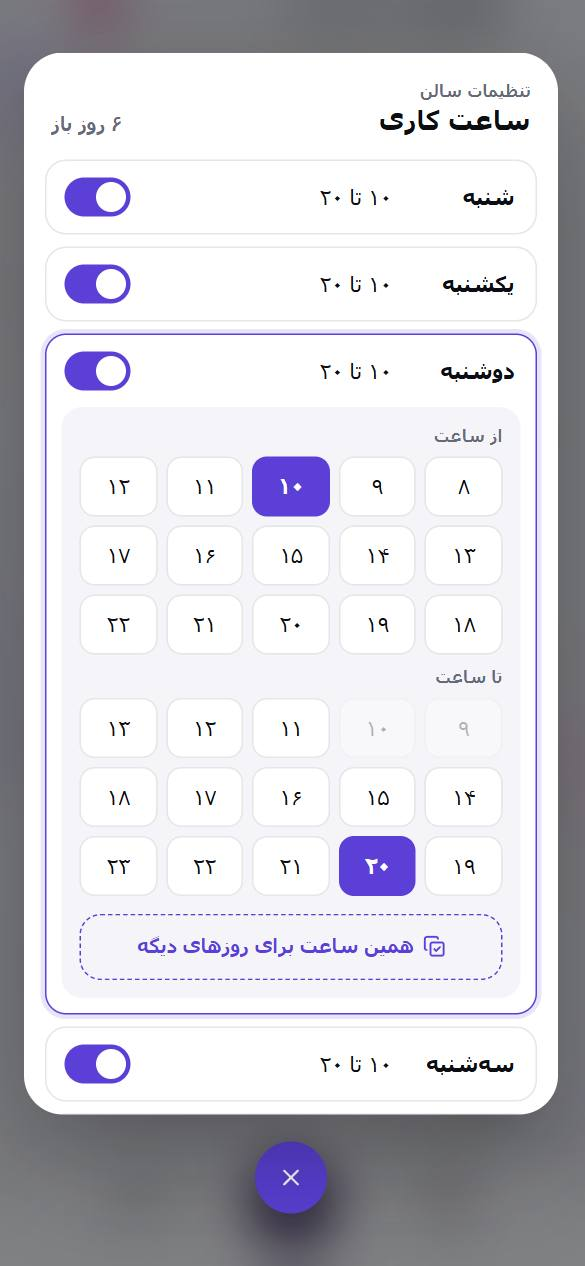
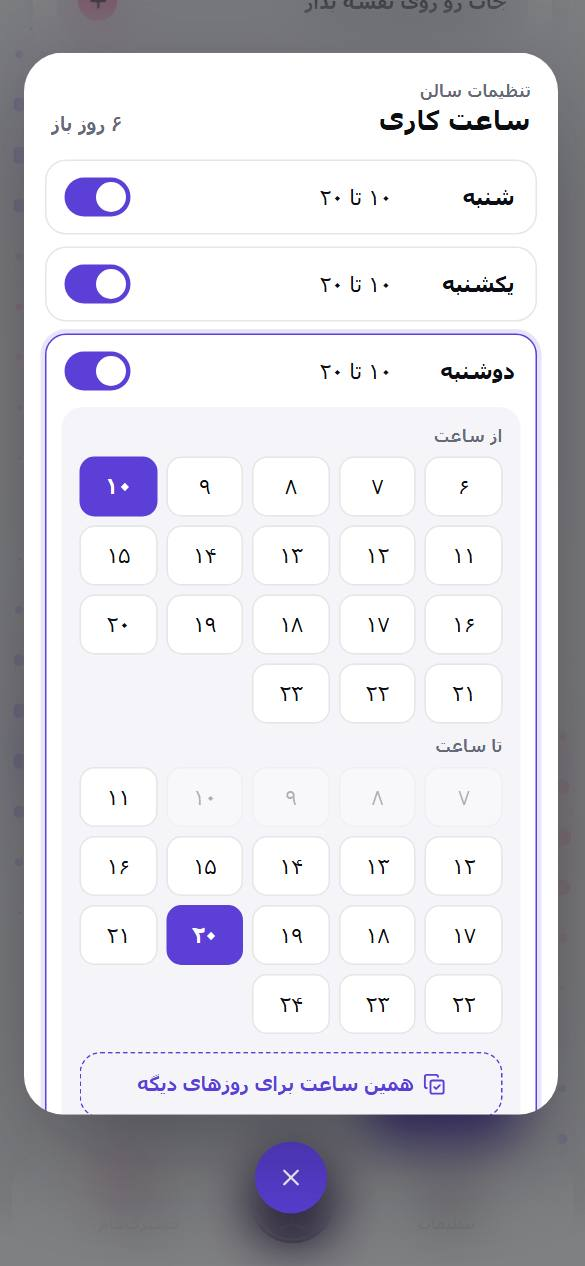
Hardening step 1, review fixes: a team member's number stays private, one seat never breaks a team page, alert and dropped-connection gaps
The hours screen pictures are retaken.

diff --git a/tests/integration/loginPhoneVisibility.test.js b/tests/integration/loginPhoneVisibility.test.js
@@ -1,5 +1,5 @@
 import { describe, it, expect } from "vitest";
-import { createClient, registerUser, FAR_DAY, confirmedAt, joinSalonAsArtist, newArtist, newClient, newSalon } from "./exitHelpers.js";
+import { createClient, registerUser, FAR_DAY, confirmedAt, joinSalonAsArtist, newArtist, newClient, newSalon, q } from "./exitHelpers.js";
 
 // Owner's decision of 2026-11-08: a salon's or artist's login phone is seen by the account itself, a connected client, a
 // client with a booking there, and the other side of a team. Nobody else, signed in or not.
@@ -55,6 +55,55 @@ describe("who sees a salon's login phone", () => {
     expect((await joinSalonAsArtist(artist.api, salon.api, salon.id)).ok).toBe(true);
     expect(await salonPhoneFor(artist.api, salon)).toBe(salon.phone);
     expect(await artistPhoneFor(salon.api, artist)).toBe(artist.phone);
+  });
+});
+
+describe("a salon's team on its page", () => {
+  const staffOf = async (viewer, salon) => (await viewer.get(`/api/salons/${salon.id}`)).payload.data.salon.staff;
+
+  it("a member's number reaches neither a visitor, a stranger nor the page's HTML; the salon keeps it", async () => {
+    const salon = await newSalon("Phone Team Page");
+    const artist = await newArtist("Phone Team Page Artist");
+    const mate = await newArtist("Phone Team Page Mate");
+    for (const person of [artist, mate]) expect((await joinSalonAsArtist(person.api, salon.api, salon.id)).ok).toBe(true);
+    const stranger = await newClient("Phone Team Page Stranger");
+
+    for (const viewer of [createClient(), stranger.api, mate.api]) {
+      const member = (await staffOf(viewer, salon)).find((row) => row.artist_user_id === artist.id);
+      expect(member).toBeTruthy();
+      expect(member.artist_phone).toBeUndefined();
+      expect(member.phone).toBeUndefined();
+      expect(member.bio).toBeUndefined();
+    }
+    const own = (await staffOf(salon.api, salon)).find((row) => row.artist_user_id === artist.id);
+    expect(own.artist_phone).toBe(artist.phone);
+
+    const html = await (await fetch(`${process.env.TEST_BASE_URL}/salons/${salon.id}`)).text();
+    expect(html).not.toContain(artist.phone);
+  });
+
+  it("a client connected to one member sees that member's number only", async () => {
+    const salon = await newSalon("Phone Team One");
+    const artist = await newArtist("Phone Team One Artist");
+    const other = await newArtist("Phone Team One Other");
+    for (const person of [artist, other]) expect((await joinSalonAsArtist(person.api, salon.api, salon.id)).ok).toBe(true);
+    const client = await newClient("Phone Team One Client");
+    expect((await connect(client, artist)).ok).toBe(true);
+    const staff = await staffOf(client.api, salon);
+    expect(staff.find((row) => row.artist_user_id === artist.id).artist_phone).toBe(artist.phone);
+    expect(staff.find((row) => row.artist_user_id === other.id).artist_phone).toBeUndefined();
+  });
+
+  it("an old unlinked row of an artist who already has a seat does not break the salon's team", async () => {
+    const salon = await newSalon("Team Old Row");
+    const artist = await newArtist("Team Old Row Artist");
+    expect((await joinSalonAsArtist(artist.api, salon.api, salon.id)).ok).toBe(true);
+    await q(`INSERT INTO salon_staff (salon_user_id, name, phone, role, bio, booked, state, access_level)
+      SELECT salon_user_id, $2, $3, role, bio, booked, state, access_level FROM salon_staff WHERE artist_user_id = $1`, [artist.id, artist.user.name, artist.phone]);
+    expect((await salon.api.get("/api/salon-staff")).ok).toBe(true);
+    expect((await createClient().get(`/api/salons/${salon.id}`)).ok).toBe(true);
+    const seats = await q("SELECT COUNT(*)::int AS c FROM salon_staff WHERE salon_user_id = $1 AND artist_user_id = $2", [salon.id, artist.id]);
+    expect(seats[0].c).toBe(1);
   });
 });
 

diff --git a/app/lib/db/repos/salons/staff.js b/app/lib/db/repos/salons/staff.js
@@ -51,6 +51,7 @@ export async function listSalonStaff(salonUserId, runner = null) {
         UPDATE salon_staff
         SET artist_user_id = $1, updated_at = CURRENT_TIMESTAMP
         WHERE id = $2 AND salon_user_id = $3
+          AND NOT EXISTS (SELECT 1 FROM salon_staff seat WHERE seat.salon_user_id = $3 AND seat.artist_user_id = $1)
       `, [artist.id, row.id, salonUserId]);
     }
     const staffAvatarUrl = artistAvatarUrl(artist);
@@ -469,7 +470,11 @@ export async function updateSalonStaff(id, salonUserId, data) {
     access_level: data.accessLevel ?? data.access_level ?? current.access_level
   };
   const resolvedArtist = await resolveArtistUserForStaff(nextDraft, db);
-  const artistUserId = nextDraft.artist_user_id || resolvedArtist?.id || null;
+  // One seat per salon and artist (migration 078): an old unlinked row stays unlinked when the artist already has a row.
+  const seatTaken = !nextDraft.artist_user_id && resolvedArtist?.id
+    ? await get(db, "SELECT 1 AS taken FROM salon_staff WHERE salon_user_id = $1 AND artist_user_id = $2 AND id <> $3", [salonUserId, resolvedArtist.id, id])
+    : null;
+  const artistUserId = nextDraft.artist_user_id || (seatTaken ? null : resolvedArtist?.id) || null;
   await run(db, `
     UPDATE salon_staff SET
       artist_user_id = $1, name = $2, phone = $3, role = $4, bio = $5, booked = $6, state = $7, access_level = $8, updated_at = CURRENT_TIMESTAMP

diff --git a/app/lib/db/repos/contactVisibility.js b/app/lib/db/repos/contactVisibility.js
@@ -1,6 +1,20 @@
 import { getDb, get } from "../connection.js";
 
 /**
+ * A salon's team as the viewer may see it. The salon itself gets the list as it is; anyone else gets each member's
+ * number only when canSeeLoginPhone allows that member, and never the private note the salon or an invite wrote.
+ */
+export async function teamListForViewer(staff, viewerUserId, salonUserId) {
+  const list = Array.isArray(staff) ? staff : [];
+  if (viewerUserId && Number(viewerUserId) === Number(salonUserId)) return list;
+  return Promise.all(list.map(async (member) => {
+    const { phone: _phone, artist_phone: _artistPhone, bio: _bio, artist_bio: _artistBio, ...shown } = member;
+    const allowed = member.artist_user_id && await canSeeLoginPhone(viewerUserId, member.artist_user_id);
+    return allowed ? { ...shown, phone: member.phone, artist_phone: member.artist_phone } : shown;
+  }));
+}
+
+/**
  * Who may see a salon's or artist's login phone on their page (owner's decision of 2026-11-08, HEALTH debt 13).
  *
  * The number is the account's login and SMS number, so a stranger who only opened the page does not get it. It is

diff --git a/app/api/salons/[id]/route.js b/app/api/salons/[id]/route.js
@@ -5,7 +5,7 @@ import * as salons from "../../../lib/db/repos/salons.js";
 import { suspendedAccountIds } from "../../../lib/db/repos/users.js";
 import { PAGE_UNAVAILABLE_MESSAGE } from "../../../lib/billing/access.js";
 import { withErrorHandling } from "../../../lib/http.js";
-import { canSeeLoginPhone } from "../../../lib/db/repos/contactVisibility.js";
+import { canSeeLoginPhone, teamListForViewer } from "../../../lib/db/repos/contactVisibility.js";
 
 export const runtime = "nodejs";
 
@@ -35,6 +35,7 @@ async function _GET(request, context) {
   // client, a client with a booking there, or the other side of a team gets it (the app's «تماس با سالن»). Anyone
   // else, signed in or not, sees the page without it.
   if (!(await canSeeLoginPhone(viewer?.id, userId))) delete salon.phone;
+  salon.staff = await teamListForViewer(salon.staff, viewer?.id, userId);
   return NextResponse.json({ data: { salon } });
 }
 

diff --git a/app/lib/serverWatch.js b/app/lib/serverWatch.js
@@ -5,6 +5,7 @@ import * as store from "./db/repos/adminNews.js";
 import { alertAdmins, tehranClock } from "./adminNews.js";
 import { activityBytes } from "./db/repos/activity.js";
 import { toPersianDigits } from "../shared/lib/digits.js";
+import { rememberAdminTokens } from "./adminPush.js";
 
 /**
  * The server watch, run every 5 minutes by /api/cron/admin-watch: reads the machine's load, disk and memory, how long
@@ -152,6 +153,7 @@ export function judge(reading, state = {}, now = new Date()) {
 
 /** One watch round: read, judge, tell, save. Returns what it saw and told (for the cron's answer and the log). */
 export async function watchServer(origin, now = new Date()) {
+  await rememberAdminTokens();
   const reading = await readServer(origin);
   const { alerts, state, busyToday } = judge(reading, await store.readState("server"), now);
   await store.writeState("server", state);

diff --git a/app/lib/serverErrorAlert.js b/app/lib/serverErrorAlert.js
@@ -30,10 +30,12 @@ export function alertAdminsServerError(error) {
     const shared = await checkRateLimit("admin-push:server-error", 1, QUIET_MS).catch(() => ({ ok: true }));
     if (!shared.ok) return;
     const dbDown = databaseLooksDown(error);
-    await pushAdmins({
+    const reached = await pushAdmins({
       title: dbDown ? "دیتابیس فرفرو جواب نمیده" : "خطای سرور فرفرو",
       body: dbDown ? "کاربرها الان صفحهٔ خطا میبینن. سرور و دیتابیس رو نگاه کن." : "یه خطای جدی تو سایت افتاد. لاگ سرور رو نگاه کن.",
       tag: "server-error"
     });
+    // Nobody was reached (no list in memory yet): try again in a minute instead of staying quiet for ten.
+    if (!reached.size) lastSentAt = now - QUIET_MS + 60 * 1000;
   })().catch(() => {});
 }

diff --git a/app/lib/db/connection.js b/app/lib/db/connection.js
@@ -190,6 +190,8 @@ function getPool() {
   // Postgres refuses a text value holding a NUL byte (error 22021), which turned a stray \u0000 in a name, a search
   // or a password into a 500. Every pooled connection drops that byte from its string parameters before sending.
   pool.on("connect", (client) => {
+    // pg takes its own listener off a client while it is checked out; a connection dropped mid-query must still be heard.
+    client.on("error", (error) => console.error("Postgres client error:", error.message));
     const query = client.query.bind(client);
     const clean = (value) => (typeof value === "string" && value.includes("\u0000") ? value.replaceAll("\u0000", "") : value);
     client.query = (first, second, ...rest) => {

diff --git a/app/salons/[id]/page.jsx b/app/salons/[id]/page.jsx
@@ -1,4 +1,5 @@
 import { notFound } from "next/navigation";
+import { teamListForViewer } from "../../lib/db/repos/contactVisibility.js";
 import { PageUnavailable } from "../../components/PageUnavailable";
 import { suspendedAccountIds } from "../../lib/db/repos/users.js";
 import { ensureDb } from "../../lib/db/connection.js";
@@ -37,6 +38,7 @@ async function loadSalonFresh(id) {
   // crossing the "use client" SalonPublicPageClient RSC boundary.
   // The page never shows the number, and it is the owner's login phone: it stays out of the HTML.
   const { phone: _loginPhone, ...shown } = salon;
+  shown.staff = await teamListForViewer(salon.staff, null, userId);
   return JSON.parse(JSON.stringify(shown));
 }
 

diff --git a/app/lib/adminPush.js b/app/lib/adminPush.js
@@ -13,6 +13,12 @@ import { logger } from "./logger.js";
  */
 let knownTokens = [];
 
+/** Keeps the in-memory list fresh for the moment the database is down (run by the 5-minute server watch). Never throws. */
+export async function rememberAdminTokens() {
+  if (!fcmConfigured()) return;
+  knownTokens = await adminPush.listFreshTokensForPhones(adminPhoneList()).catch(() => knownTokens);
+}
+
 export async function pushAdmins({ title, body, url = "/admin", tag = "" } = {}) {
   const reached = new Set();
   if (!fcmConfigured()) {

diff --git a/docs/PROJECT_NOTES.md b/docs/PROJECT_NOTES.md
@@ -40,7 +40,7 @@ How each part of frfro works and why, with the owner's decisions and dates. Move
 - Admin support inbox (owner 2026-11-05): every row says in words whose turn it is, from `turnOf` in `app/admin/format.js`: «منتظر پاسخ تو» (amber), «جواب دادی» (green; «پیام دادی» when the admin started the chat) or «بسته». Opening a conversation without answering changes nothing, because only a reply answers it. The tab for answered chats is «جواب دادم». A row shows «تو:» before the last message when the admin wrote it. On a phone the state sits under the name inside the conversation. Coming back from a conversation reloads the list.
 - Footprint «رد پا» (owner 2026-11-05): who came, when, what they opened and did, when they left, for the admin panel only. Tables `activity_visits` and `activity_events` (migration 069). The phone sends small batches to `/api/activity` (`app/shared/lib/activity.js`, mounted by `app/components/ActivityTracker.jsx`): at load, every 30 s if something happened, a ping each minute while the screen is on, and on leaving. A new visit starts after 30 minutes away or on sign-out. Only fixed names go out: nothing typed, no photo, no place, no phone. A visitor is a random id on the phone; when that phone signs in, its earlier visits join the account. The account always comes from the session. Main actions are noted where they happen: path list `ACTIONS` in `app/shared/api/client.js`, artist services in `app/shared/api/artists.js`, «رزرو» taps on the two public pages, link sharing, tutorial end or skip. A new action needs its label in `app/admin/activityLabels.js`. Admin: user page › «رد پا» (`UserFootprint.jsx`), reports › «کجا میمونن» (`ActivityReport.jsx`). The owner's test numbers are in `FRFRO_TEST_PHONES` (server env only; the repo is public) and are left out of the report. Detail is kept for good while the account lives («حکم طلا رو دارن»); `serverWatch` pushes «رد پای کاربرها جای زیادی گرفته» at 2 GB, once in 30 days; nothing deletes by itself. A deleted account keeps only numbers with no person: `user_id` goes and a trigger sets `visitor_id` to `gone`. This batch also writes `users.last_seen_at`, which nothing wrote before, so the admin's last seen, online and daily numbers work from the deploy on. Footprint starts on deploy day; nothing earlier can be recovered. The admin panel itself is not tracked. A phone visitor still on the about page shows as «صفحهٔ خانه», because the app behind it is already mounted. Limits on `/api/activity`: 16 KB a batch, 300 rows a minute per address, 2000 rows a visit; when the database has a queue, batches are dropped. Every limit on `/api/activity` is in memory, and a failed batch is dropped: it must never cost a booking.
 
-- Hardening step 1 (2026-11-08): calendar «now» in the app is `app/shared/lib/clock.js` (`nowDate` / `nowMs`), the phone's clock corrected by the server's Date header; timers stay on `Date.now()`, and the guard refuses a new `new Date()` in app code unless the line ends with `// clock-ok`. `apiFetch` gives up after 25 s on reads and 120 s on saves. The database has statement and idle-in-transaction limits, and a connection that could not be made (restart, network blink) is tried 3 more times; a full pool is not. The admin alert works with the database down (`serverErrorAlert.js`). Team invites answer under one pair lock, and `salon_staff_one_seat` (migration 078) is the last line against a second row; check it exists after a deploy, because it is skipped when old duplicates exist. Web push keeps only real browser push services (`pushEndpoint.js`). Login phone: `canSeeLoginPhone` in `contactVisibility.js`, used by `GET /api/salons/[id]` and `GET /api/artists/[id]`; lists and public HTML never carry it. Hours: 6:00 to 24:00, `parseClosingTime` is the only reader that takes 24:00.
+- Hardening step 1 (2026-11-08): calendar «now» in the app is `app/shared/lib/clock.js` (`nowDate` / `nowMs`), the phone's clock corrected by the server's Date header; timers stay on `Date.now()`, and the guard refuses a new `new Date()` in app code unless the line ends with `// clock-ok`. `apiFetch` gives up after 25 s on reads and 120 s on saves. The database has statement and idle-in-transaction limits, and a connection that could not be made (restart, network blink) is tried 3 more times; a full pool is not. The admin alert works with the database down (`serverErrorAlert.js`). Team invites answer under one pair lock, and `salon_staff_one_seat` (migration 078) is the last line against a second row; check it exists after a deploy, because it is skipped when old duplicates exist. Web push keeps only real browser push services (`pushEndpoint.js`). Login phone: `canSeeLoginPhone` in `contactVisibility.js`, used by `GET /api/salons/[id]` and `GET /api/artists/[id]`; lists and public HTML never carry it. A salon's team list goes through `teamListForViewer`: only the salon itself gets every member's number. Hours: 6:00 to 24:00, `parseClosingTime` is the only reader that takes 24:00. The 30 s statement limit cannot be tried on Vercel (off on the Supabase pooler); run `scripts/backfill-media-storage.mjs` with `PG_STATEMENT_TIMEOUT_MS=0`.
 
 ## Vercel env rename (2026-10-10, done)
 
